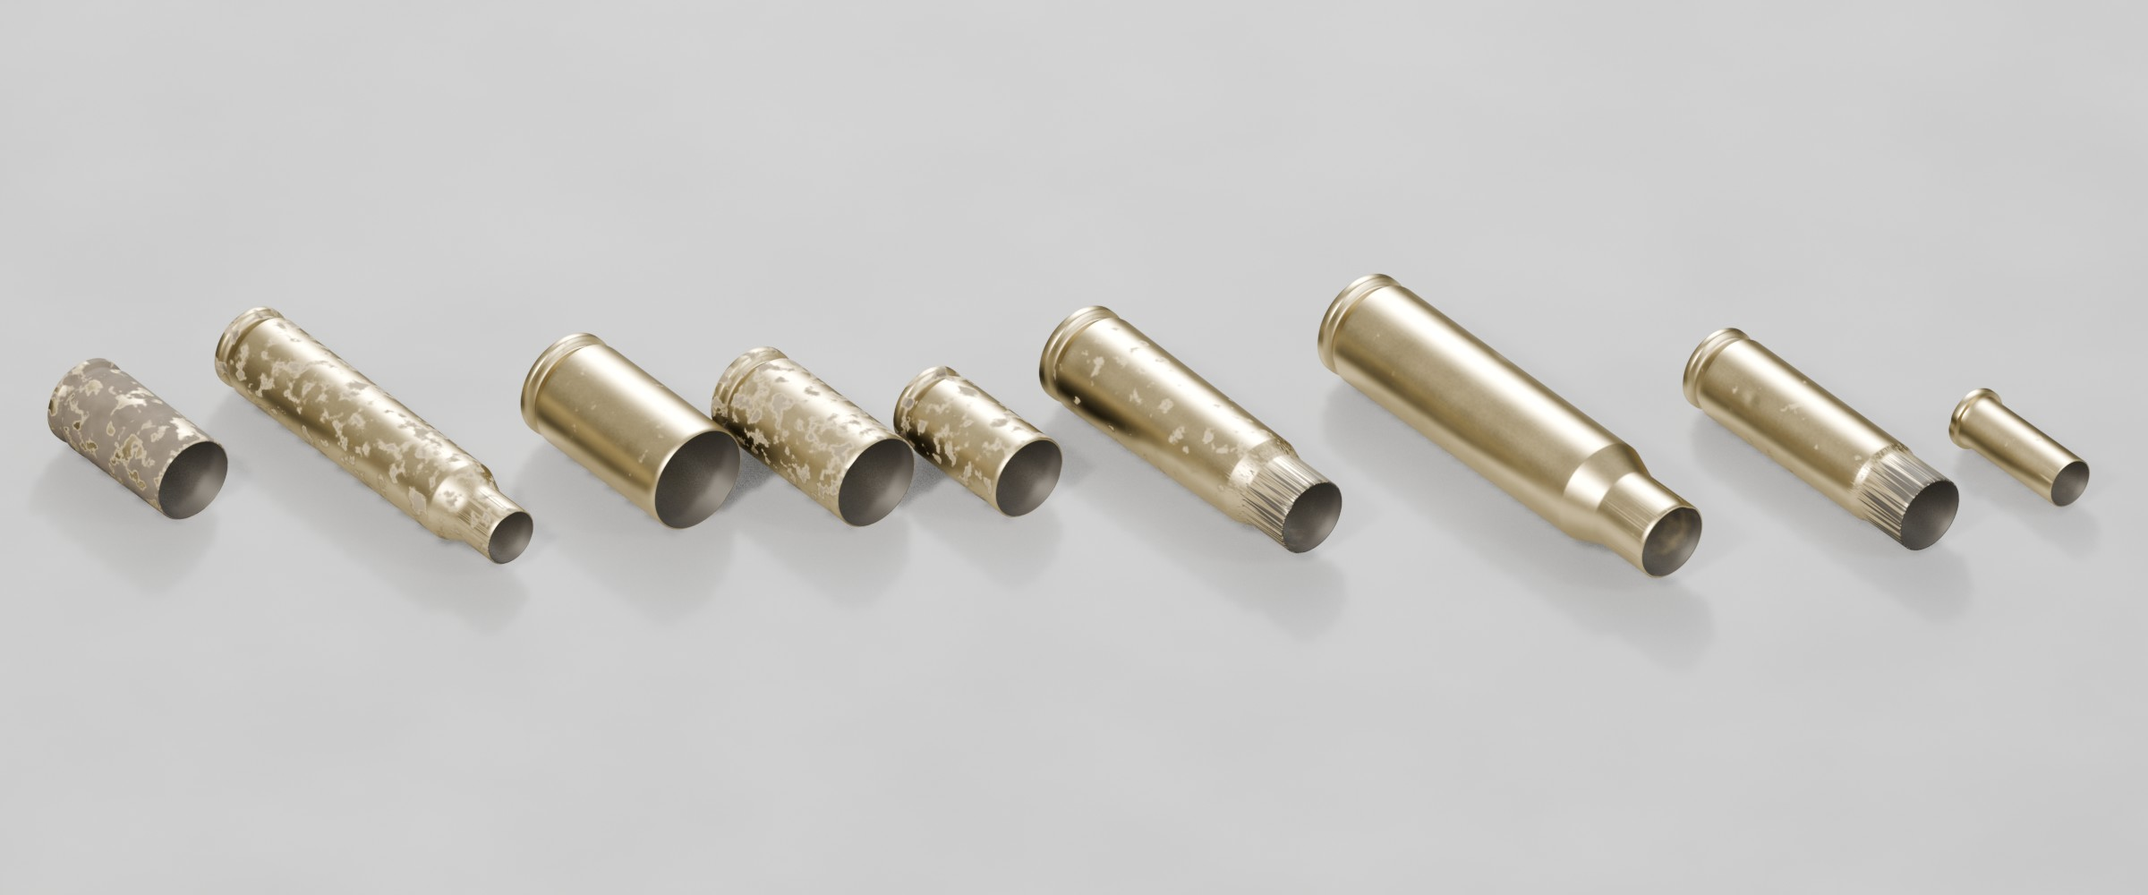
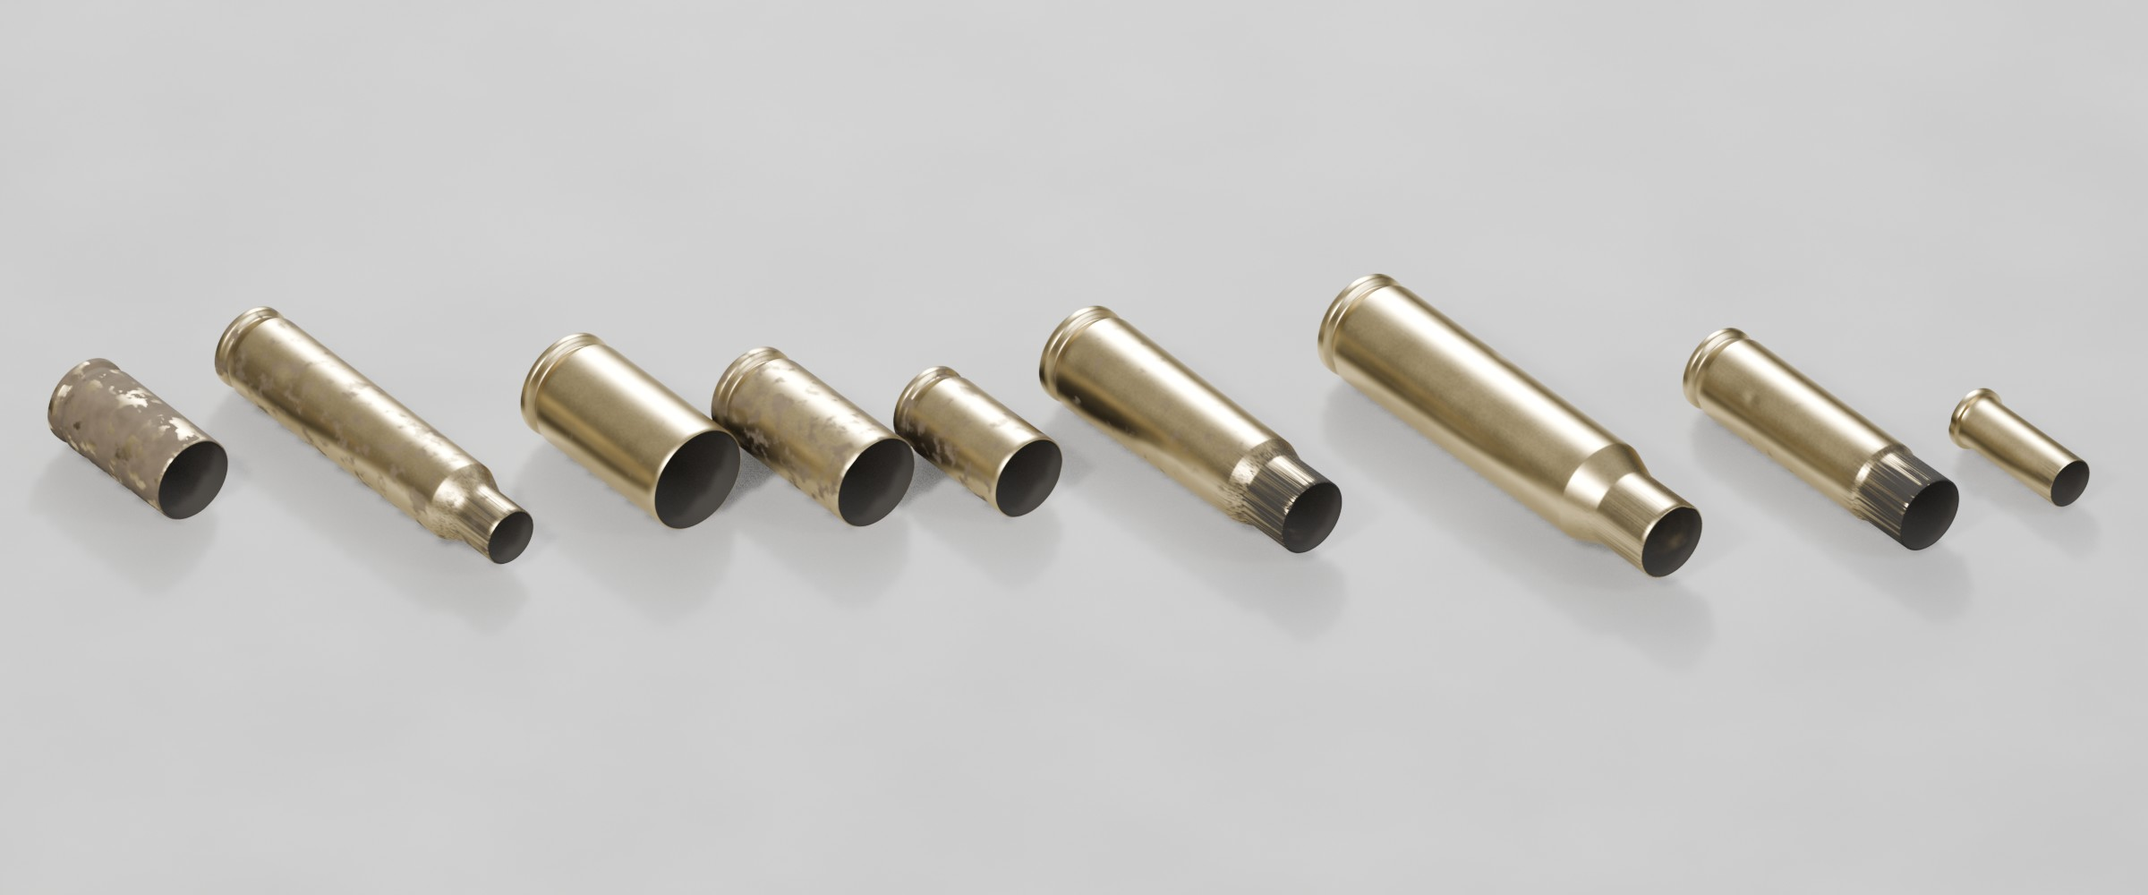
Layered dirt/soot closures in one shared GF Metal node group
- Metal, soil and soot are now three complete BSDFs mixed as shader
  closures (like Substrate slabs) instead of blending one BSDF's inputs,
  which left half-metallic, pale outlines along every mask edge. Soil
  gets its own grain bump; soot is matte carbon.
- The whole look lives in one node group, GF Metal; each metal material
  is just an instance with its own inputs, so editing the group updates
  every metal. Copies keep sharing their metal's material.

diff --git a/cartridges/blender/materials.py b/cartridges/blender/materials.py
@@ -1,19 +1,27 @@
 """Procedural, physically based metal materials, kept light for EEVEE (also fine in Cycles).
 
-All metals share one node graph with per-metal parameters:
+One shared node group, ``GF Metal``, holds the whole look; every metal material (brass,
+gilding metal, copper, lead, nickel, steel, aluminium) is just an instance of that group
+with its own inputs. Edit the group once and every material follows. Every copy of a part
+shares its metal's material; per-copy variation comes from the object (random value,
+object colour) and the mesh (baked attributes), never from material copies.
 
-* base colour = measured normal-incidence reflectance (linear RGB), edge tint = F82 tint
-* two 4D noises (low and high frequency) whose three colour channels drive six masks:
-  tarnish blotches, slow roughness drift, anneal streaks, fine roughness, sparse specks
-* drawing marks along the part's axis, and sparse micro-dents (a Voronoi dimple field)
-* a baked ``cavity`` vertex attribute (headstamp letters, primer gap, extractor groove,
-  case interior) darkens and roughens recesses, standing in for ambient occlusion, which
-  is costly in EEVEE
-* brass only: an annealing stain on rifle necks, from object properties ``anneal_z0`` /
-  ``anneal_z1`` (mm from the head) and ``anneal_amt`` (0-1)
+Inside the group:
 
-Texture space is object space in millimetres, offset by the object's random value, so
-every copy gets its own pattern.
+* metal layer: measured normal-incidence reflectance (linear RGB) as base colour, F82
+  edge tint, tarnish blotches with a thin oxide film, drawing marks along the axis, sparse
+  specks and micro-dents, recess grime from the baked ``cavity`` attribute (instead of
+  costly ambient occlusion), and an annealing tint on rifle necks (``anneal`` attribute)
+* dirt layer: dielectric soil with its own grainy surface; collects in recesses first
+* soot layer: matte carbon inside fired cases (heaviest at the floor) and blow-by
+  streaks on the neck
+
+The three layers are complete BSDFs mixed as closures, like Unreal Substrate slabs: masks
+only set coverage, so mask edges never produce half-metallic, pale-looking brass.
+
+Per-copy drivers live in the object colour: R dirt, G soot inside, B soot outside,
+A annealing amount. Texture space is object space in millimetres, offset by the object's
+random value, so every copy gets its own pattern.
 """
 
 from __future__ import annotations
@@ -22,6 +30,8 @@ import warnings
 from dataclasses import dataclass
 
 import bpy
+
+GROUP = "GF Metal"
 
 
 @dataclass(frozen=True)
@@ -50,7 +60,26 @@ METALS: dict[str, Metal] = {
     "aluminum": Metal((0.91, 0.92, 0.92), (0.97, 0.97, 0.98), 0.25, tarnish=(0.75, 0.76, 0.77), tarnish_amt=0.3, film_nm=0),
 }
 
-ANNEAL_COLOUR = (0.32, 0.22, 0.20)
+# Group inputs: (name, socket type, default)
+INPUTS = [
+    ("Base Color", "NodeSocketColor", (0.88, 0.70, 0.34, 1.0)),
+    ("Edge Tint", "NodeSocketColor", (1.0, 0.94, 0.80, 1.0)),
+    ("Metallic", "NodeSocketFloat", 1.0),
+    ("Roughness", "NodeSocketFloat", 0.15),
+    ("Roughness Variation", "NodeSocketFloat", 0.03),
+    ("Tarnish Color", "NodeSocketColor", (0.6, 0.44, 0.2, 1.0)),
+    ("Tarnish", "NodeSocketFloat", 0.2),
+    ("Oxide Film (nm)", "NodeSocketFloat", 40.0),
+    ("Drawing Marks", "NodeSocketFloat", 0.3),
+    ("Specks", "NodeSocketFloat", 0.4),
+    ("Micro Dents", "NodeSocketFloat", 0.6),
+    ("Annealing", "NodeSocketFloat", 0.0),
+]
+
+ANNEAL_COLOUR = (0.32, 0.22, 0.20, 1.0)
+SOIL_DARK = (0.025, 0.019, 0.013, 1.0)
+SOIL_LIGHT = (0.085, 0.064, 0.042, 1.0)
+SOOT = (0.014, 0.013, 0.012, 1.0)
 
 
 def _sock(sockets, key):
@@ -120,8 +149,18 @@ class _G:
         self.feed(_sock(n.inputs, "B_Color"), b)
         return _sock(n.outputs, "Result_Color")
 
-    def attr(self, name, kind="OBJECT", x=0, y=0):
+    def attr(self, name, kind="GEOMETRY", x=0, y=0):
         return self.node("ShaderNodeAttribute", x, y, attribute_type=kind, attribute_name=name).outputs["Fac"]
+
+    def bsdf(self, x, y, **inputs):
+        return self.node("ShaderNodeBsdfPrincipled", x, y, inputs={k.replace("_", " "): v for k, v in inputs.items()}).outputs["BSDF"]
+
+    def mix_shader(self, fac, a, b, x=0, y=0):
+        n = self.node("ShaderNodeMixShader", x, y)
+        self.feed(n.inputs[0], fac)
+        self.feed(n.inputs[1], a)
+        self.feed(n.inputs[2], b)
+        return n.outputs[0]
 
 
 def _new(name):
@@ -134,136 +173,159 @@ def _new(name):
     return mat
 
 
-def metal_material(key: str) -> bpy.types.Material:
-    existing = bpy.data.materials.get(key)
-    if existing:
-        return existing
-    p = METALS[key]
-    mat = _new(key)
-    g = _G(mat.node_tree)
+def metal_group() -> bpy.types.ShaderNodeTree:
+    """The shared ``GF Metal`` node group (built once per file)."""
+    ng = bpy.data.node_groups.get(GROUP)
+    if ng:
+        return ng
+    ng = bpy.data.node_groups.new(GROUP, "ShaderNodeTree")
+    for name, kind, default in INPUTS:
+        sock = ng.interface.new_socket(name, in_out="INPUT", socket_type=kind)
+        sock.default_value = default
+    ng.interface.new_socket("Shader", in_out="OUTPUT", socket_type="NodeSocketShader")
+    g = _G(ng)
+    gi = g.node("NodeGroupInput", -2000, 0).outputs
+    go = g.node("NodeGroupOutput", 2100, 0)
 
-    tc = g.node("ShaderNodeTexCoord", -1600, 0)
-    pmm = g.node("ShaderNodeVectorMath", -1400, 0, operation="SCALE")
+    tc = g.node("ShaderNodeTexCoord", -1800, 0)
+    pmm = g.node("ShaderNodeVectorMath", -1600, 0, operation="SCALE")
     g.feed(pmm.inputs[0], tc.outputs["Object"])
     _sock(pmm.inputs, "Scale").default_value = 1000.0  # metres -> millimetres
     pmm = pmm.outputs[0]
-    info = g.node("ShaderNodeObjectInfo", -1600, -300)
+    info = g.node("ShaderNodeObjectInfo", -1800, -300)
     rnd = info.outputs["Random"]
-    w = g.math("MULTIPLY", rnd, 173.0, -1400, -300)
-    # per-object drivers packed in the object colour (EEVEE reads it as a plain uniform):
-    #   R dirt, G soot inside, B soot outside, A anneal amount
-    drivers = g.node("ShaderNodeSeparateColor", -1400, 1700)
+    w = g.math("MULTIPLY", rnd, 173.0, -1600, -300)
+    # per-object drivers packed in the object colour: R dirt, G soot in, B soot out, A anneal
+    drivers = g.node("ShaderNodeSeparateColor", -1600, 1700)
     g.feed(drivers.inputs[0], info.outputs["Color"])
     dirt_amt, soot_in_amt, soot_out_amt = drivers.outputs[0], drivers.outputs[1], drivers.outputs[2]
     anneal_amt = info.outputs["Alpha"]
 
-    # low-frequency channels: tarnish blotches, roughness drift, anneal streaks
-    _, lo_r, lo_g, lo_b = g.noise_rgb(pmm, w, 0.25, 2.0, -1200, 400)
-    tarnish = g.math("MULTIPLY", g.map(lo_r, 0.45, 0.75, x=-800, y=500, smooth=True), p.tarnish_amt, -600, 500)
-    drift = g.map(lo_g, 0.3, 0.7, -1.0, 1.0, x=-800, y=350)
-    # high-frequency channels: fine roughness, specks
-    _, hi_r, hi_g, _ = g.noise_rgb(pmm, w, 3.0, 2.0, -1200, 0)
-    fine = g.map(hi_r, 0.3, 0.7, -1.0, 1.0, x=-800, y=50)
-    specks = g.math("MULTIPLY", g.map(hi_g, 0.76, 0.79, x=-800, y=-100), p.specks, -600, -100)
-    # drawing marks along the axis
-    stretch = g.node("ShaderNodeVectorMath", -1400, -550, operation="MULTIPLY")
+    # ---- shared noise channels
+    _, lo_r, lo_g, lo_b = g.noise_rgb(pmm, w, 0.25, 2.0, -1400, 400)  # tarnish, drift, anneal streaks
+    _, hi_r, hi_g, _ = g.noise_rgb(pmm, w, 3.0, 2.0, -1400, 0)  # fine roughness, specks
+    stretch = g.node("ShaderNodeVectorMath", -1600, -550, operation="MULTIPLY")
     g.feed(stretch.inputs[0], pmm)
     stretch.inputs[1].default_value = (6.0, 6.0, 0.08)
-    lines_fac, _, _, _ = g.noise_rgb(stretch.outputs[0], w, 1.0, 1.0, -1200, -550)
-    lines = g.math("MULTIPLY", g.map(lines_fac, 0.5, 0.8, x=-800, y=-550), p.lines, -600, -550)
-    # sparse micro-dents from bulk handling: smooth dimples in a few Voronoi cells
-    vor = g.node("ShaderNodeTexVoronoi", -1200, -850, voronoi_dimensions="4D", feature="F1")
+    lines_fac, _, _, _ = g.noise_rgb(stretch.outputs[0], w, 1.0, 1.0, -1400, -550)  # drawing marks along the axis
+    vor = g.node("ShaderNodeTexVoronoi", -1400, -850, voronoi_dimensions="4D", feature="F1")
     g.feed(vor.inputs["Vector"], pmm)
     g.feed(vor.inputs["W"], w)
     vor.inputs["Scale"].default_value = 0.9
-    cell = g.node("ShaderNodeSeparateColor", -1000, -950)
+    cell = g.node("ShaderNodeSeparateColor", -1200, -950)
     g.feed(cell.inputs[0], vor.outputs["Color"])
-    pick = g.map(cell.outputs[0], 0.82, 0.86, x=-800, y=-950)
-    bowl = g.map(vor.outputs["Distance"], 0.0, 0.45, 1.0, 0.0, x=-800, y=-800, smooth=True)
-    dimple = g.math("MULTIPLY", g.math("MULTIPLY", bowl, pick, -600, -850), p.dimples, -450, -850)
 
-    cavity = g.attr("cavity", "GEOMETRY", -800, 800)
+    tarnish = g.math("MULTIPLY", g.map(lo_r, 0.45, 0.75, x=-1000, y=500, smooth=True), gi["Tarnish"], -800, 500)
+    drift = g.map(lo_g, 0.3, 0.7, -1.0, 1.0, x=-1000, y=350)
+    fine = g.map(hi_r, 0.3, 0.7, -1.0, 1.0, x=-1000, y=50)
+    specks = g.math("MULTIPLY", g.map(hi_g, 0.76, 0.79, x=-1000, y=-100), gi["Specks"], -800, -100)
+    lines = g.math("MULTIPLY", g.map(lines_fac, 0.5, 0.8, x=-1000, y=-550), gi["Drawing Marks"], -800, -550)
+    bowl = g.map(vor.outputs["Distance"], 0.0, 0.45, 1.0, 0.0, x=-1000, y=-800, smooth=True)
+    pick = g.map(cell.outputs[0], 0.82, 0.86, x=-1000, y=-950)
+    dimple = g.math("MULTIPLY", g.math("MULTIPLY", bowl, pick, -800, -850), gi["Micro Dents"], -650, -850)
+    cavity = g.attr("cavity", x=-1000, y=800)
+    zn = g.attr("zn", x=-1400, y=1900)  # height along the case, 0 head .. 1 mouth
+    interior = g.attr("interior", x=-1200, y=2700)
 
-    rough = g.madd(fine, p.roughness_var * 0.35, p.roughness, -400, 0)
-    rough = g.madd(drift, p.roughness_var * 0.5, rough, -250, 0)
+    # ---- metal layer
+    rv = gi["Roughness Variation"]
+    rough = g.madd(fine, g.math("MULTIPLY", rv, 0.35, -600, 150), gi["Roughness"], -400, 0)
+    rough = g.madd(drift, g.math("MULTIPLY", rv, 0.5, -400, 150), rough, -250, 0)
     rough = g.madd(lines, 0.04, rough, -100, 0)
     rough = g.madd(specks, 0.10, rough, 50, 0)
     rough = g.madd(tarnish, 0.10, rough, 200, 0)
     rough = g.madd(cavity, 0.25, rough, 350, 0)
-    rough = g.madd(g.math("SUBTRACT", rnd, 0.5, -400, -250), 0.04, rough, 500, 0, clamp=True)
+    rough = g.madd(dirt_amt, 0.2, rough, 450, 0)  # brass that has lain in the dirt is dull
+    rough = g.madd(g.math("SUBTRACT", rnd, 0.5, -400, -250), 0.04, rough, 550, 0, clamp=True)
 
-    colour = g.mix(g.math("MULTIPLY", tarnish, 0.5, -400, 650), (*p.base, 1.0), (*p.tarnish, 1.0), -200, 650)
-    film = g.math("MULTIPLY", tarnish, p.film_nm, -200, 850)
+    colour = g.mix(g.math("MULTIPLY", tarnish, 0.5, -600, 650), gi["Base Color"], gi["Tarnish Color"], -400, 650)
+    film = g.math("MULTIPLY", tarnish, gi["Oxide Film (nm)"], -400, 850)
+    anneal = g.math("MULTIPLY", g.math("MULTIPLY", g.attr("anneal", x=-1200, y=1150), anneal_amt, -1000, 1150), gi["Annealing"], -850, 1150)
+    anneal = g.math("MULTIPLY", anneal, g.map(lo_b, 0.2, 0.8, 0.85, 1.15, x=-1000, y=1350), -700, 1150, clamp=True)
+    colour = g.mix(g.math("MULTIPLY", anneal, 0.3, -550, 1150), colour, ANNEAL_COLOUR, -200, 950)
+    grime = g.node("ShaderNodeVectorMath", -400, 1450, operation="SCALE")
+    g.feed(grime.inputs[0], gi["Tarnish Color"])
+    _sock(grime.inputs, "Scale").default_value = 0.35
+    grime = grime.outputs[0]
+    colour = g.mix(g.math("MULTIPLY", cavity, 0.7, -100, 800), colour, grime, 50, 800)
+    weathered = g.math("MULTIPLY", g.map(lo_r, 0.3, 0.7, 0.4, 1.0, x=-400, y=1950), g.math("MULTIPLY", dirt_amt, 0.55, -400, 1850), -200, 1900)
+    colour = g.mix(weathered, colour, grime, 200, 1000)
 
-    if p.anneal:
-        amt = g.math("MULTIPLY", g.attr("anneal", "GEOMETRY", -1000, 1150), anneal_amt, -800, 1150)  # band baked per vertex
-        anneal = g.math("MULTIPLY", amt, g.map(lo_b, 0.2, 0.8, 0.85, 1.15, x=-800, y=1350), -600, 1150, clamp=True)
-        # colour only: a thin film passes through dark interference bands in this thickness range
-        colour = g.mix(g.math("MULTIPLY", anneal, 0.3, -400, 1150), colour, (*ANNEAL_COLOUR, 1.0), 0, 900)
+    m_height = g.math("MULTIPLY", lines, 0.2, 50, -450)  # fine noise stays out of the bump: it reads as grain
+    m_height = g.madd(specks, -0.6, m_height, 200, -450)
+    m_height = g.madd(dimple, -0.6, m_height, 300, -600)
+    m_normal = g.node("ShaderNodeBump", 450, -450, inputs={"Strength": 0.2, "Distance": 0.00001, "Height": m_height}).outputs["Normal"]
+    metal = g.bsdf(
+        1000,
+        400,
+        Base_Color=colour,
+        Metallic=gi["Metallic"],
+        Roughness=rough,
+        Specular_Tint=gi["Edge Tint"],
+        Thin_Film_Thickness=film,
+        Thin_Film_IOR=2.0,
+        Normal=m_normal,
+    )
 
-    grime = tuple(c * 0.35 for c in p.tarnish)
-    colour = g.mix(g.math("MULTIPLY", cavity, 0.7, 200, 800), colour, (*grime, 1.0), 350, 700)
-
-    # ---- dirt and soot (amounts from the object colour, see above; scene.make_copy sets them):
-    #   dirt      soil/dust coverage; collects in recesses first
-    #   soot in   powder residue inside a fired case, heaviest at the bottom
-    #   soot out  blow-by on the outside of a fired case's neck/mouth
-    zn = g.attr("zn", "GEOMETRY", -1200, 1900)  # height along the case, 0 at the head, 1 at the mouth
-    w3 = g.math("ADD", w, 31.0, -1200, 2300)
-    soil_fac, soil_r, _, soil_b = g.noise_rgb(pmm, w3, 0.6, 4.0, -1000, 2300)
-    lo_cut = g.madd(dirt_amt, -0.75, 1.08, -800, 2450)  # more dirt, lower threshold, wider patches
+    # ---- dirt layer: soil, patchy, in recesses first, plus a thin film of dust
+    w3 = g.math("ADD", w, 31.0, -1400, 2300)
+    soil_fac, soil_r, _, soil_b = g.noise_rgb(pmm, w3, 0.6, 4.0, -1200, 2300)
+    lo_cut = g.madd(dirt_amt, -0.75, 1.08, -800, 2450)  # more dirt: lower threshold, wider patches
     patches = g.map(soil_fac, lo_cut, g.math("ADD", lo_cut, 0.15, -800, 2550), x=-600, y=2400, smooth=True)
     dirt = g.madd(cavity, dirt_amt, g.math("MULTIPLY", patches, dirt_amt, -400, 2400), -250, 2350)
-    dirt = g.madd(dirt_amt, 0.12, dirt, -100, 2350, clamp=True)  # thin dust film everywhere
-    soil = g.mix(soil_b, (0.03, 0.024, 0.017, 1.0), (0.11, 0.085, 0.06, 1.0), -400, 2150)
-    # brass that has lain in the dirt is tarnished and dull under the soil too
-    weathered = g.madd(g.map(lo_r, 0.3, 0.7, 0.4, 1.0, x=-400, y=1950), g.math("MULTIPLY", dirt_amt, 0.55, -400, 1850), 0.0, -250, 1900)
-    colour = g.mix(weathered, colour, (*grime, 1.0), 400, 1300)
-    rough = g.madd(dirt_amt, 0.2, rough, 400, 150)
+    dirt = g.madd(dirt_amt, 0.12, dirt, -100, 2350, clamp=True)
+    soil = g.mix(soil_b, SOIL_DARK, SOIL_LIGHT, -400, 2150)
+    d_height = g.madd(soil_r, 1.0, g.math("MULTIPLY", dimple, 0.5, 300, -900), 450, -900)
+    d_normal = g.node("ShaderNodeBump", 650, -900, inputs={"Strength": 0.6, "Distance": 0.00003, "Height": d_height}).outputs["Normal"]
+    soil_rough = g.map(soil_fac, 0.3, 0.7, 0.88, 1.0, x=700, y=-700)
+    dirt_bsdf = g.bsdf(1000, -300, Base_Color=soil, Metallic=0.0, Roughness=soil_rough, Specular_IOR_Level=0.2, Normal=d_normal)
 
-    interior = g.attr("interior", "GEOMETRY", -1000, 2700)
-    falloff = g.map(zn, 0.05, 0.95, 1.5, 1.0, x=-800, y=2750, smooth=True)  # heaviest at the floor, by the flash hole
+    # ---- soot layer: inside a fired case (heaviest at the floor) and blow-by on the neck
+    falloff = g.map(zn, 0.05, 0.95, 1.5, 1.0, x=-800, y=2750, smooth=True)
     soot_in = g.math("MULTIPLY", g.math("MULTIPLY", interior, soot_in_amt, -800, 2900), falloff, -600, 2850)
     soot_in = g.math("MULTIPLY", soot_in, g.map(lo_b, 0.3, 0.7, 0.8, 1.2, x=-800, y=3050), -450, 2900, clamp=True)
     outside = g.math("SUBTRACT", 1.0, interior, -800, 3200)
     neck = g.map(zn, 0.62, 0.96, x=-800, y=3350, smooth=True)
     streak = g.map(lines_fac, 0.35, 0.75, 0.4, 1.0, x=-800, y=3500)
     soot_out = g.math("MULTIPLY", g.math("MULTIPLY", outside, neck, -600, 3250), g.math("MULTIPLY", soot_out_amt, streak, -600, 3600), -450, 3400, clamp=True)
-    soot = g.math("ADD", soot_in, soot_out, -300, 3100, clamp=True)
-    # soot is patchy, not a tint: a spot is either sooted or bare (a half-blend reads as pale paint)
-    soot = g.map(soot, 0.3, 0.6, x=-150, y=3100, smooth=True)
+    soot = g.map(g.math("ADD", soot_in, soot_out, -300, 3100, clamp=True), 0.1, 0.6, x=-150, y=3100, smooth=True)
+    soot_bsdf = g.bsdf(1000, -900, Base_Color=SOOT, Metallic=0.0, Roughness=0.9, Specular_IOR_Level=0.1, Normal=m_normal)
 
-    colour = g.mix(dirt, colour, soil, 500, 1200)
-    colour = g.mix(soot, colour, (0.018, 0.016, 0.014, 1.0), 650, 1200)
-    # only real soil cover stops being metal; a dust film over brass still reflects like brass
-    caked = g.map(dirt, 0.35, 0.75, x=500, y=1650, smooth=True)
-    metallic = g.math("MULTIPLY", g.math("SUBTRACT", 1.0, g.math("MULTIPLY", caked, 0.9, 500, 1500), 650, 1500), p.metallic, 800, 1500)
-    metallic = g.math("MULTIPLY", metallic, g.math("SUBTRACT", 1.0, soot, 800, 1650, clamp=True), 950, 1550)  # soot is matte carbon, not metal
-    rough = g.madd(dirt, g.math("SUBTRACT", 0.9, rough, 550, 100), rough, 700, 50)
-    rough = g.madd(soot, g.math("SUBTRACT", 0.6, rough, 750, 100), rough, 850, 50)
+    # ---- layers as closures: metal, then dirt over it, then soot over both
+    shader = g.mix_shader(dirt, metal, dirt_bsdf, 1500, 0)
+    shader = g.mix_shader(soot, shader, soot_bsdf, 1750, 0)
+    g.feed(go.inputs["Shader"], shader)
+    return ng
 
-    height = g.math("MULTIPLY", lines, 0.2, 50, -450)  # fine noise stays out of the bump: it reads as grain
-    height = g.madd(specks, -0.6, height, 200, -450)
-    height = g.madd(dimple, -0.6, height, 300, -600)
-    height = g.madd(g.math("MULTIPLY", dirt, soil_r, 300, -750), 1.5, height, 400, -700)  # soil grains stand proud
-    bump = g.node("ShaderNodeBump", 450, -450, inputs={"Strength": 0.2, "Distance": 0.00001, "Height": height})
 
-    bsdf = g.node(
-        "ShaderNodeBsdfPrincipled",
-        1100,
-        200,
-        inputs={
-            "Base Color": colour,
-            "Metallic": metallic,
-            "Roughness": rough,
-            "Specular Tint": (*p.edge, 1.0),
-            "Thin Film Thickness": film,
-            "Thin Film IOR": 2.0,
-            "Normal": bump.outputs["Normal"],
-        },
-    )
-    out = g.node("ShaderNodeOutputMaterial", 1400, 200)
-    g.feed(out.inputs["Surface"], bsdf.outputs["BSDF"])
+def metal_material(key: str) -> bpy.types.Material:
+    """Material for one metal: an instance of the shared group with that metal's values."""
+    existing = bpy.data.materials.get(key)
+    if existing:
+        return existing
+    p = METALS[key]
+    mat = _new(key)
+    g = _G(mat.node_tree)
+    grp = g.node("ShaderNodeGroup", 0, 0)
+    grp.node_tree = metal_group()
+    values = {
+        "Base Color": (*p.base, 1.0),
+        "Edge Tint": (*p.edge, 1.0),
+        "Metallic": p.metallic,
+        "Roughness": p.roughness,
+        "Roughness Variation": p.roughness_var,
+        "Tarnish Color": (*p.tarnish, 1.0),
+        "Tarnish": p.tarnish_amt,
+        "Oxide Film (nm)": p.film_nm,
+        "Drawing Marks": p.lines,
+        "Specks": p.specks,
+        "Micro Dents": p.dimples,
+        "Annealing": 1.0 if p.anneal else 0.0,
+    }
+    for name, value in values.items():
+        grp.inputs[name].default_value = value
+    out = g.node("ShaderNodeOutputMaterial", 300, 0)
+    g.feed(out.inputs["Surface"], grp.outputs["Shader"])
     return mat
 
 

diff --git a/README.md b/README.md
@@ -100,13 +100,19 @@ specs/*.toml, bullets/*.toml ──▶ specs.py      load, fill defaults, valida
 - **Headstamps** are real geometry, stamped in two layers (a shallow full letter and a deeper,
   thinner core) for soft, rounded letter walls, with each letter's position, angle, size and
   depth jittered like a hand-set bunter. Rimfire marks are raised.
-- **Materials** share one node graph per metal (brass, gilding metal, copper, lead, nickel,
-  steel, aluminium): measured reflectance, F82 edge tint, tarnish, drawing marks, sparse
-  dings and micro-dents, plus dirt and soot layers. Everything a copy needs is either baked
-  into vertex attributes (`cavity` for recesses instead of costly ambient occlusion,
-  `interior`, `zn` height along the case, `anneal` band) or packed into the object colour
-  (R dirt, G soot inside, B soot outside, A annealing tint), which EEVEE reads as a plain
-  uniform. Set an object's colour to make it cleaner or filthier.
+- **Materials** are all instances of one shared node group, **`GF Metal`**: each metal
+  (brass, gilding metal, copper, lead, nickel, steel, aluminium) is a material holding just
+  that group with its own inputs (reflectance, F82 edge tint, roughness, tarnish, oxide
+  film, drawing marks, specks, micro-dents, annealing). Edit the group once and every metal
+  follows; every copy of a part shares its metal's material.
+- **Layered, not blended.** Inside the group, metal, soil and soot are three complete BSDFs
+  mixed as shader closures, like Unreal Substrate slabs: the masks only set coverage, so
+  mask edges never turn into half-metallic brass with a pale outline. The soil has its own
+  grain bump; soot is matte carbon.
+- **Per-copy drivers** are baked into vertex attributes (`cavity` for recesses instead of
+  costly ambient occlusion, `interior`, `zn` height along the case, `anneal` band) or
+  packed into the object colour (R dirt, G soot inside, B soot outside, A annealing), which
+  EEVEE reads as a plain uniform. Set an object's colour to make it cleaner or filthier.
 - **EEVEE setup:** screen-space ray tracing with a 2 mm trace thickness (the 0.2 m default
   smears copper beside millimetre-sized parts), shadows, no fast GI. Detail shots use a long
   lens instead of an orthographic camera, which also breaks screen-space reflections.
